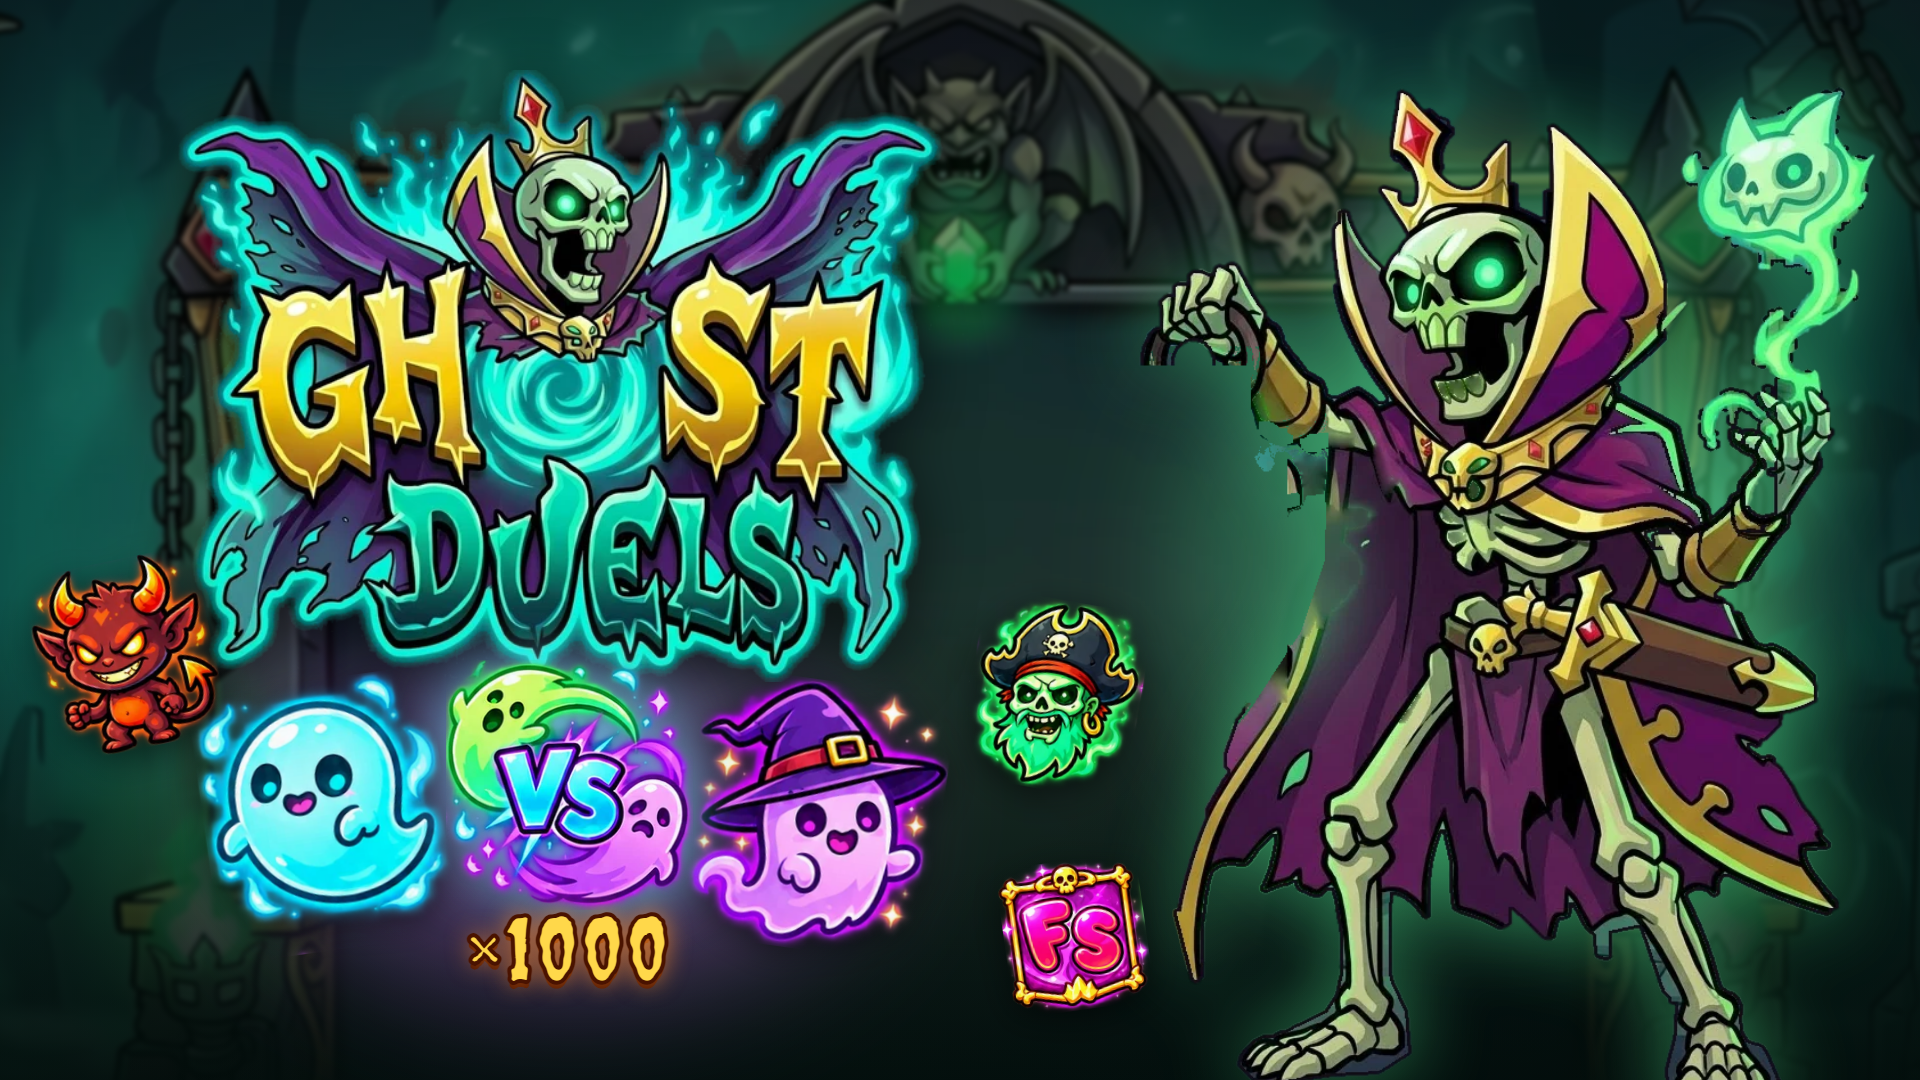
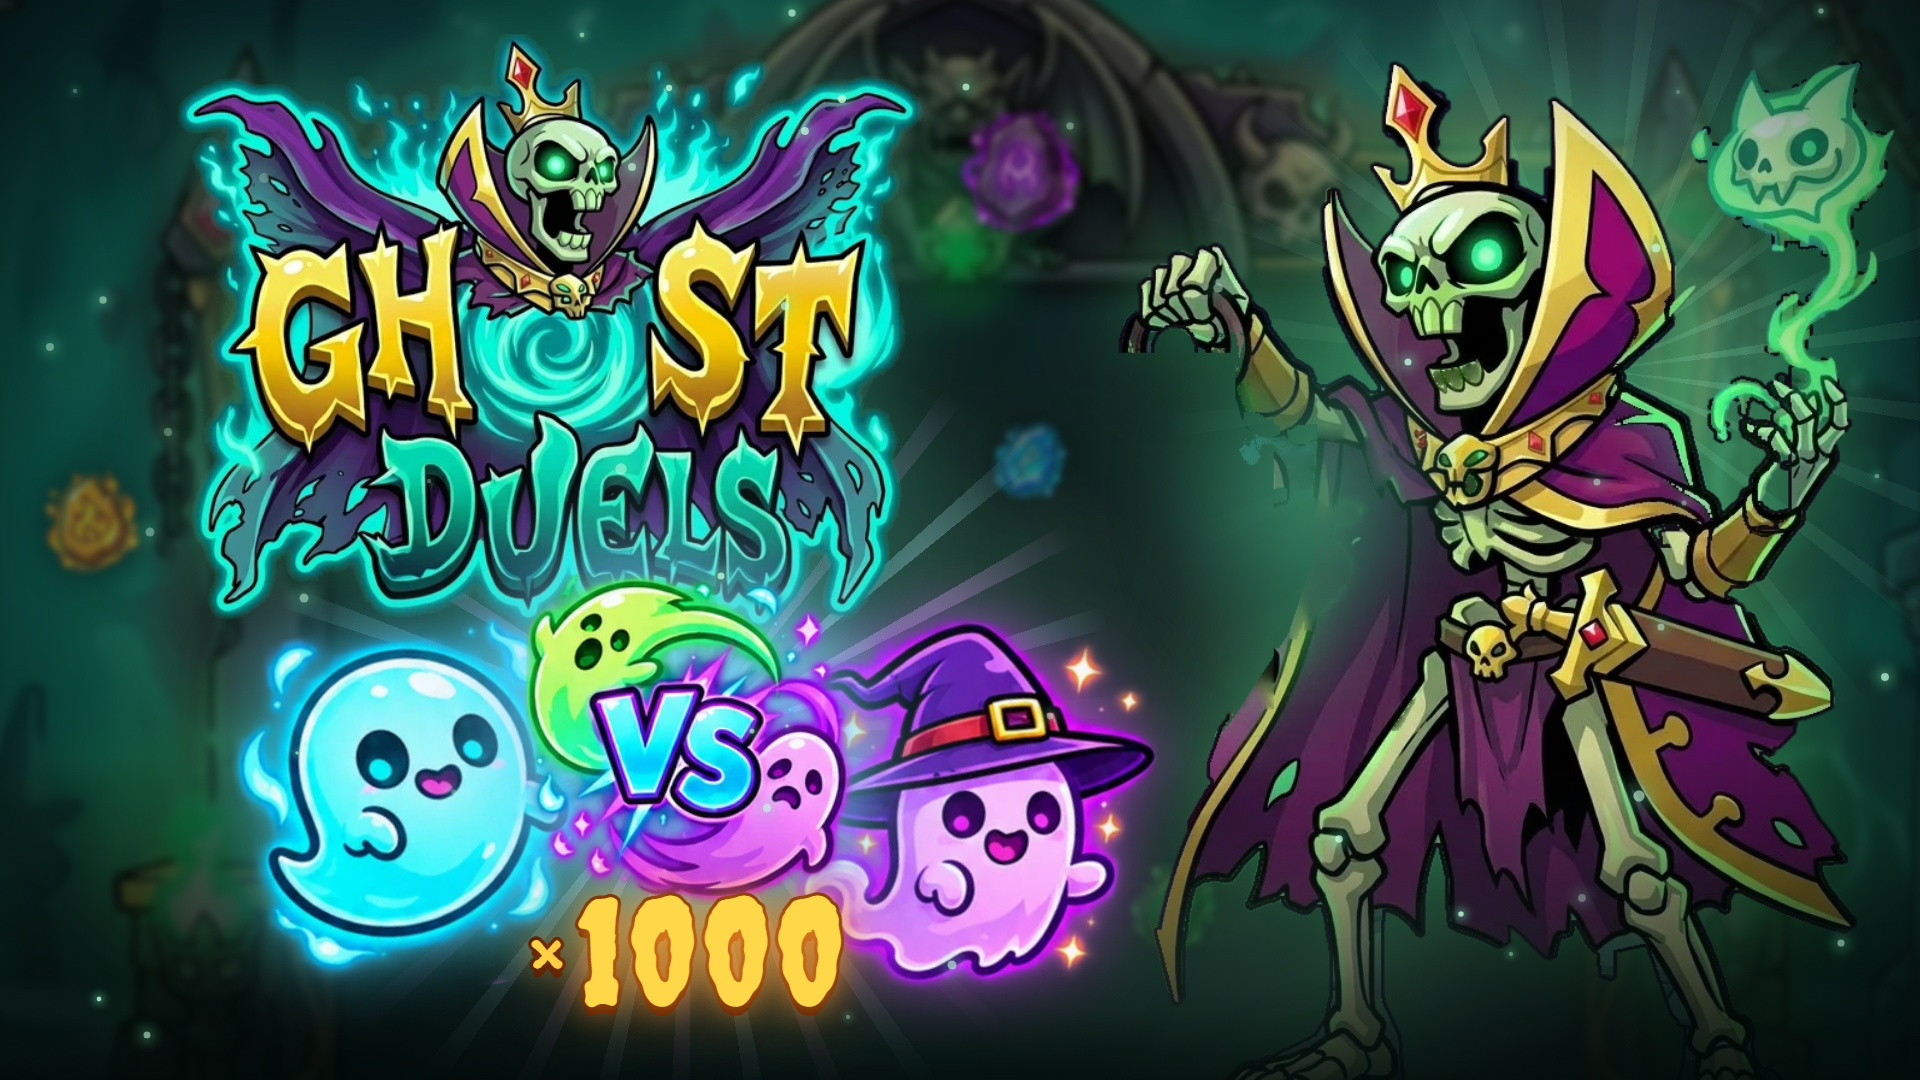
Fix approval findings from a full Engine review run; new 16:9 cover
Ran the review checklist (engine-review-prompt.md) against the mock RGS
with request interception, at all four viewports and in every currency.
Fixed what it found:
- [242] minBet, maxBet and stepBet now apply: levels outside them are
  dropped, and levels are built from them when betLevels is missing
- [187] a resumed round's stake stays selected even when it is not one
  of the offered bet levels
- [171] Spin is disabled once a replay round has played (it only skips
  while the replay runs)
- [219] balance, bet and win shrink to fit their painted boxes, so long
  amounts in CA$ and MX$ are no longer cut off (landscape only; the
  phone panel sizes the fields to their text)

Cover art redone: the duel as the centrepiece with light bursts behind
the VS and the Skull King, fog, drifting runes and sparks.

diff --git a/media/cover-16x9.html b/media/cover-16x9.html
@@ -2,41 +2,107 @@
 <!-- Source of cover-16x9.png (1920x1080), built from the game's own art. Re-render from the repo root with:
   & "C:\Program Files\Google\Chrome\Application\chrome.exe" --headless=new --hide-scrollbars --allow-file-access-from-files --window-size=1920,1080 --virtual-time-budget=4000 --screenshot="$PWD\media\cover-16x9.png" "file:///$($PWD -replace '\\','/')/media/cover-16x9.html"
 -->
-<html><head><meta charset="utf-8"><style>
-  html, body { margin: 0; width: 1920px; height: 1080px; overflow: hidden; background: #071a17; }
-  .c { position: relative; width: 1920px; height: 1080px; overflow: hidden; }
-  /* zoomed to the top of the art so the game's control bar is cropped off */
-  .bg { position: absolute; left: -12%; top: -4%; width: 124%; height: 150%; object-fit: cover; object-position: 50% 0; filter: brightness(.66) saturate(1.1) blur(2.5px); }
-  .shade { position: absolute; inset: 0; background:
-    radial-gradient(60% 70% at 38% 55%, transparent 0 40%, rgba(2,12,10,.55) 100%),
-    linear-gradient(0deg, rgba(3,14,12,.92), rgba(3,14,12,.5) 22%, transparent 45%); }
-  .glow { position: absolute; border-radius: 50%; filter: blur(60px); mix-blend-mode: screen; }
-  .king { position: absolute; right: 40px; bottom: -40px; height: 1060px; filter: drop-shadow(0 0 40px rgba(89,255,156,.45)); }
-  .logo { position: absolute; left: 150px; top: 70px; width: 820px; filter: drop-shadow(0 10px 30px rgba(0,0,0,.6)); }
-  .duel { position: absolute; left: 190px; top: 640px; width: 760px; height: 330px; }
-  .duel img { position: absolute; filter: drop-shadow(0 8px 18px rgba(0,0,0,.6)); }
-  .vs { left: 255px; top: 20px; width: 250px; z-index: 2; filter: drop-shadow(0 0 30px rgba(120,220,255,.8)) !important; }
-  .blue { left: 0; top: 40px; width: 270px; transform: rotate(-8deg); }
-  .witch { right: 0; top: 40px; width: 270px; transform: rotate(8deg); }
-  .mult { position: absolute; left: 50%; top: 255px; transform: translateX(-50%); font: 90px Creepster, cursive; color: #ffd84a;
-    -webkit-text-stroke: 4px #4a1300; text-shadow: 0 0 24px rgba(255,140,40,.9), 0 6px 0 #4a1300; letter-spacing: 4px; z-index: 3; }
-  .side { position: absolute; width: 190px; filter: drop-shadow(0 8px 18px rgba(0,0,0,.6)); }
-</style>
+<html><head><meta charset="utf-8">
 <link rel="stylesheet" href="../ghost-duels-web/fonts/fonts.css">
-</head><body><div class="c">
-  <img class="bg" src="../ghost-duels-web/assets/bg.webp" alt="">
-  <div class="shade"></div>
-  <div class="glow" style="left:1180px;top:260px;width:620px;height:620px;background:rgba(89,255,156,.28)"></div>
-  <div class="glow" style="left:260px;top:620px;width:620px;height:380px;background:rgba(211,107,255,.3)"></div>
-  <img class="king" src="../ghost-duels-web/assets/img23.webp" alt="">
-  <img class="logo" src="../ghost-duels-web/assets/logo.webp" alt="Ghost Duels">
-  <img class="side" src="../ghost-duels-web/assets/devil.webp" style="left:30px;top:560px;transform:rotate(-12deg)" alt="">
-  <img class="side" src="../ghost-duels-web/assets/pirate.webp" style="left:960px;top:600px;transform:rotate(10deg)" alt="">
-  <img class="side" src="../ghost-duels-web/assets/fs.webp" style="left:1000px;top:860px;width:150px;transform:rotate(-8deg)" alt="">
-  <div class="duel">
-    <img class="blue" src="../ghost-duels-web/assets/blue.webp" alt="">
-    <img class="vs" src="../ghost-duels-web/assets/vs.webp" alt="">
-    <img class="witch" src="../ghost-duels-web/assets/witch.webp" alt="">
-    <div class="mult">×1000</div>
+<style>
+  html, body { margin: 0; width: 1920px; height: 1080px; overflow: hidden; background: #04120f; }
+  .c { position: relative; width: 1920px; height: 1080px; overflow: hidden; isolation: isolate; }
+  .abs { position: absolute; }
+
+  /* cave: zoomed to the top of the art (the game's control bar is cropped off), softened so the heroes stand out */
+  .bg { left: -10%; top: -6%; width: 120%; height: 150%; object-fit: cover; object-position: 50% 0;
+        filter: brightness(.5) saturate(1.15) blur(4px); }
+  /* light: a green glow behind the duel, a cold beam falling on the Skull King */
+  .light { inset: 0; background:
+      radial-gradient(38% 46% at 36% 64%, rgba(120, 255, 190, .30), transparent 70%),
+      radial-gradient(30% 55% at 78% 40%, rgba(110, 255, 170, .26), transparent 72%),
+      radial-gradient(22% 30% at 30% 30%, rgba(190, 110, 255, .22), transparent 75%);
+    mix-blend-mode: screen; }
+  .beam { left: 1180px; top: -120px; width: 640px; height: 1300px; transform: rotate(14deg);
+    background: linear-gradient(90deg, transparent, rgba(170, 255, 210, .16) 35%, rgba(200, 255, 225, .22) 50%, rgba(170, 255, 210, .16) 65%, transparent);
+    filter: blur(28px); mix-blend-mode: screen; }
+  /* fog banks along the floor */
+  .fog { left: -10%; width: 120%; height: 420px; bottom: -120px; filter: blur(30px); border-radius: 50%;
+    background: radial-gradient(50% 50% at 50% 50%, rgba(150, 255, 210, .30), transparent 70%); mix-blend-mode: screen; }
+  .vignette { inset: 0; background:
+      radial-gradient(75% 85% at 50% 48%, transparent 55%, rgba(0, 8, 6, .85) 100%),
+      linear-gradient(0deg, rgba(2, 12, 10, .85), transparent 30%); }
+
+  /* heroes */
+  .king { right: 20px; bottom: -70px; height: 1120px; filter: drop-shadow(0 0 50px rgba(89, 255, 156, .45)) drop-shadow(0 30px 40px rgba(0, 0, 0, .6)); }
+  .logo { left: 150px; top: 34px; width: 800px; filter: drop-shadow(0 0 40px rgba(89, 255, 200, .35)) drop-shadow(0 14px 30px rgba(0, 0, 0, .7)); }
+
+  /* the duel: two ghosts face off across the VS, the multiplier below */
+  .duel { left: 200px; top: 540px; width: 860px; height: 470px; transform: scale(1.14); transform-origin: 0 0; }
+  .arena { left: 90px; top: 250px; width: 680px; height: 170px; border-radius: 50%;
+    background: radial-gradient(50% 50% at 50% 50%, rgba(120, 255, 200, .45), rgba(120, 255, 200, .08) 60%, transparent 72%); filter: blur(10px); }
+  .ghost { width: 330px; filter: drop-shadow(0 18px 24px rgba(0, 0, 0, .55)); }
+  .blue { left: 20px; top: 70px; transform: rotate(-10deg) scaleX(-1); filter: drop-shadow(0 0 30px rgba(79, 227, 255, .75)) drop-shadow(0 18px 24px rgba(0, 0, 0, .55)); }
+  .witch { right: 20px; top: 70px; transform: rotate(10deg); filter: drop-shadow(0 0 30px rgba(211, 107, 255, .75)) drop-shadow(0 18px 24px rgba(0, 0, 0, .55)); }
+  .vs { left: 285px; top: 30px; width: 290px; z-index: 2; filter: drop-shadow(0 0 40px rgba(120, 220, 255, .95)) drop-shadow(0 0 80px rgba(120, 220, 255, .5)); }
+  .spark { left: 330px; top: 70px; width: 200px; height: 200px; z-index: 1; border-radius: 50%;
+    background: radial-gradient(circle, rgba(255, 255, 255, .9), rgba(140, 230, 255, .5) 25%, transparent 60%); filter: blur(6px); mix-blend-mode: screen; }
+  .mult { left: 0; right: 0; top: 296px; text-align: center; z-index: 3; font: 128px/1 Creepster, cursive; letter-spacing: 6px; color: #ffd84a;
+    -webkit-text-stroke: 6px #3d1000; paint-order: stroke fill;
+    text-shadow: 0 0 30px rgba(255, 150, 40, .95), 0 0 70px rgba(255, 110, 20, .6), 0 8px 0 #3d1000; }
+  .mult small { font-size: .62em; vertical-align: .2em; margin-right: 6px; }
+
+  /* light bursts: rays behind the VS and behind the Skull King */
+  .burst { border-radius: 50%; mix-blend-mode: screen;
+    -webkit-mask: radial-gradient(circle, #000 0 18%, transparent 68%); mask: radial-gradient(circle, #000 0 18%, transparent 68%); }
+  .burst.duelb { left: 240px; top: 290px; width: 900px; height: 900px; opacity: 1;
+    background: repeating-conic-gradient(from 0deg, rgba(170, 240, 255, .8) 0 3deg, transparent 3deg 12deg, rgba(230, 150, 255, .7) 12deg 15deg, transparent 15deg 24deg); }
+  .burst.kingb { left: 1150px; top: -80px; width: 900px; height: 900px; opacity: .45;
+    background: repeating-conic-gradient(from 6deg, rgba(150, 255, 200, .5) 0 3deg, transparent 3deg 15deg); }
+  .core { border-radius: 50%; mix-blend-mode: screen; filter: blur(30px); }
+  /* covers stray cape fragments at the edge of the Skull King artwork */
+  .mist { left: 1180px; top: 330px; width: 260px; height: 330px; border-radius: 50%; filter: blur(34px);
+    background: radial-gradient(circle, rgba(60, 140, 110, .85), rgba(30, 90, 70, .5) 55%, transparent 75%); }
+
+  /* depth: blurred runes drifting in the air, small sparks */
+  .rune { width: 120px; opacity: .55; filter: blur(3px) drop-shadow(0 0 20px currentColor); }
+  .dot { width: 8px; height: 8px; border-radius: 50%; background: rgba(190, 255, 220, .9); box-shadow: 0 0 14px 4px rgba(120, 255, 190, .6); }
+</style></head>
+<body><div class="c">
+  <img class="abs bg" src="../ghost-duels-web/assets/bg.webp" alt="">
+  <div class="abs light"></div>
+  <div class="abs beam"></div>
+
+  <img class="abs rune" src="../ghost-duels-web/assets/rune_purple.webp" style="left:960px;top:110px;transform:rotate(-14deg)" alt="">
+  <img class="abs rune" src="../ghost-duels-web/assets/rune_green.webp" style="left:1130px;top:860px;width:90px;transform:rotate(18deg)" alt="">
+  <img class="abs rune" src="../ghost-duels-web/assets/rune_fire.webp" style="left:40px;top:470px;width:100px;transform:rotate(-20deg)" alt="">
+  <img class="abs rune" src="../ghost-duels-web/assets/rune_blue.webp" style="left:990px;top:420px;width:80px;opacity:.4;transform:rotate(12deg)" alt="">
+
+  <div class="abs burst kingb"></div>
+  <div class="abs core" style="left:1330px;top:150px;width:480px;height:480px;background:rgba(110,255,180,.22)"></div>
+  <div class="abs burst duelb"></div>
+  <div class="abs core" style="left:520px;top:600px;width:340px;height:280px;background:rgba(170,230,255,.35)"></div>
+  <img class="abs king" src="../ghost-duels-web/assets/img23.webp" alt="">
+  <div class="abs mist"></div>
+  <div class="abs fog"></div>
+  <div class="abs vignette"></div>
+
+  <img class="abs logo" src="../ghost-duels-web/assets/logo.webp" alt="Ghost Duels">
+
+  <div class="abs duel">
+    <div class="abs arena"></div>
+    <img class="abs ghost blue" src="../ghost-duels-web/assets/blue.webp" alt="">
+    <img class="abs ghost witch" src="../ghost-duels-web/assets/witch.webp" alt="">
+    <div class="abs spark"></div>
+    <img class="abs vs" src="../ghost-duels-web/assets/vs.webp" alt="">
+    <div class="abs mult"><small>×</small>1000</div>
   </div>
-</div></body></html>
+  <div id="dots"></div>
+</div>
+<script>
+  // fixed sparks (seeded, so every render is identical)
+  let s = 7; const r = () => (s = (s * 9301 + 49297) % 233280) / 233280;
+  const box = document.getElementById("dots");
+  for (let i = 0; i < 46; i++) {
+    const d = document.createElement("div"), z = .4 + r() * 1.1;
+    d.className = "abs dot";
+    Object.assign(d.style, { left: (r() * 1900) + "px", top: (r() * 1060) + "px", transform: `scale(${z})`, opacity: (.35 + r() * .6).toFixed(2) });
+    box.appendChild(d);
+  }
+</script>
+</body></html>

diff --git a/ghost-duels-web/game.js b/ghost-duels-web/game.js
@@ -1596,6 +1596,7 @@ async function replayLoop(round) {
     dlg.hidden = true;
     lock(true); slam = false; // a skip in the last viewing must not carry over
     await playRound(round.state, false);
+    spinBtn.disabled = true; // [171] Spin only skips while the replay plays; afterwards no betting control is usable
     say(i18n("Wiederholung beendet", "Replay finished"));
   }
 }
@@ -1619,7 +1620,8 @@ async function boot() {
     await introDone; // an interrupted round resumes only once the player has seen the intro
     if (RGS.replay) return await replayLoop(s.round);
     if (s.round) {
-      if (s.round.amount) { const i = BETS.indexOf(s.round.amount); if (i >= 0) betIdx = i; bet = s.round.amount; }
+      // [187] the open round's stake stays selected afterwards, even if it is not one of today's bet levels
+      if (s.round.amount) { if (!BETS.includes(s.round.amount)) BETS = [...BETS, s.round.amount].sort((a, b) => a - b); betIdx = BETS.indexOf(s.round.amount); bet = s.round.amount; }
       lock(true);
       await runRound(s.round, true);
     } else say(i18n("Drück auf Spin", "Press Spin"));
@@ -2214,6 +2216,19 @@ if (RGS.social) {
   game.insertBefore(patch, document.getElementById("betMinus"));
 }
 
+// ---------- Value fields: long amounts (CA$, MX$, big balances) shrink to fit their painted box instead of being cut off ----------
+const FIT = ["balVal", "betVal", "winVal"].map(id => document.getElementById(id));
+// Only the landscape layout's painted boxes have a fixed width; the phone panel sizes the fields to their text.
+function fitVal(el) {
+  el.style.setProperty("--fit", 1);
+  if (document.documentElement.classList.contains("portrait")) return;
+  const room = el.clientWidth, need = el.scrollWidth;
+  if (room > 20 && need > room) el.style.setProperty("--fit", Math.max(.5, room / need * .96).toFixed(3));
+}
+const fitObs = new MutationObserver(ms => new Set(ms.map(m => m.target.nodeType === 3 ? m.target.parentElement : m.target)).forEach(el => FIT.includes(el) && fitVal(el)));
+FIT.forEach(el => fitObs.observe(el, { childList: true, characterData: true, subtree: true }));
+addEventListener("resize", () => FIT.forEach(fitVal));
+
 // ---------- Portrait (phones held upright): reels on top, cropped from the art; a touch panel below ----------
 // The real controls and values move into the panel (listeners and ids stay), and menus and dialogs into a layer
 // sized for the phone; turning the phone back puts everything where it was.
@@ -2233,6 +2248,7 @@ function layout() {
   PANEL.forEach(([id, slot]) => put(id, p && document.getElementById(slot)));
   LAYER.forEach(id => put(id, p && document.getElementById("ui")));
   fx.size();
+  FIT.forEach(fitVal);
 }
 layout();
 addEventListener("resize", layout);

diff --git a/ghost-duels-web/style.css b/ghost-duels-web/style.css
@@ -186,7 +186,7 @@ body::before { content: ""; position: fixed; inset: -8%; z-index: -1; pointer-ev
 .motes { position: absolute; inset: 0; width: 100%; height: 100%; pointer-events: none; z-index: 11; }
 
 /* Painted HUD */
-.val { display: grid; place-items: center; font-weight: 800; color: #f3ead2; font-size: 2.05cqw; line-height: 1; font-variant-numeric: tabular-nums; text-shadow: 0 .15cqw 0 #000; white-space: nowrap; overflow: hidden; }
+.val { display: grid; place-items: center; font-weight: 800; color: #f3ead2; font-size: calc(2.05cqw * var(--fit, 1)); line-height: 1; font-variant-numeric: tabular-nums; text-shadow: 0 .15cqw 0 #000; white-space: nowrap; overflow: hidden; }
 #balVal { left: 20.9%; top: 92.66%; width: 10.55%; height: 4.55%; }
 #betVal { left: 39.94%; top: 92.66%; width: 5.27%; height: 4.55%; }
 #winVal { left: 51.66%; top: 92.66%; width: 11.62%; height: 4.55%; color: var(--gold); }
@@ -617,7 +617,7 @@ body::before { content: ""; position: fixed; inset: -8%; z-index: -1; pointer-ev
   background: linear-gradient(#25222f, #14111a); border: .6vw solid #d0a54c; box-shadow: 0 0 0 .3vw #15131a, inset 0 .8vw 1.6vw rgb(0 0 0 / .7); }
 .h-lbl { font: 800 2.9vw/1 var(--ui); letter-spacing: .14em; text-transform: uppercase; color: #e9e2c8; }
 .h-slot { display: grid; grid-auto-flow: column; align-items: center; justify-content: center; gap: 1.6vw; min-width: 0; position: relative; }
-.portrait .hud .val { position: static; width: auto; height: auto; font-size: 4.6vw; text-shadow: 0 .3vw 0 #000; overflow: visible; }
+.portrait .hud .val { position: static; width: auto; height: auto; font-size: calc(4.6vw * var(--fit, 1)); text-shadow: 0 .3vw 0 #000; overflow: visible; }
 .portrait .hud .mult { position: absolute; left: auto; right: -2vw; top: -9vw; font-size: 5.4vw; }
 .portrait .hud :is(#betMinus, #betPlus) { position: relative; left: auto; top: auto; width: 8vw; height: 8vw; border-radius: 50%; display: grid; place-items: center;
   background: radial-gradient(circle at 50% 35%, #2e4a43, #12221e 75%); box-shadow: inset 0 0 0 .5vw #c99a3e; color: #f3ead2; font: 800 5.4vw/1 var(--ui); }

diff --git a/ghost-duels-web/rgs.js b/ghost-duels-web/rgs.js
@@ -92,8 +92,15 @@ const RGS = (() => {
       // unit is not documented: small values are taken as seconds, large ones as milliseconds
       const mrd = Number(api.jurisdiction.minimumRoundDuration) || 0;
       api.minimumRoundDuration = mrd < 100 ? mrd * 1000 : mrd;
-      const betLevels = (cfg.betLevels || [API]).map(v => v / API);
-      const def = (cfg.defaultBetLevel || API) / API;
+      // [242] every bet parameter applies: levels outside minBet..maxBet or off the stepBet grid are dropped;
+      // without betLevels the levels are built from minBet, maxBet and stepBet
+      const min = Number(cfg.minBet) || 0, max = Number(cfg.maxBet) || Infinity, step = Number(cfg.stepBet) || 0;
+      let levels = (cfg.betLevels || []).filter(v => v >= min && v <= max && (!step || v % step === 0));
+      if (!levels.length && min && step && max < Infinity) for (let v = min; v <= max && levels.length < 200; v += step) levels.push(v);
+      if (!levels.length) levels = [Math.max(min, API)];
+      const betLevels = levels.map(v => v / API);
+      let def = (cfg.defaultBetLevel || API) / API;
+      if (!betLevels.includes(def)) def = betLevels.reduce((a, b) => Math.abs(b - def) < Math.abs(a - def) ? b : a);
       const r = data.round;
       return {
         balance: data.balance.amount / API,
